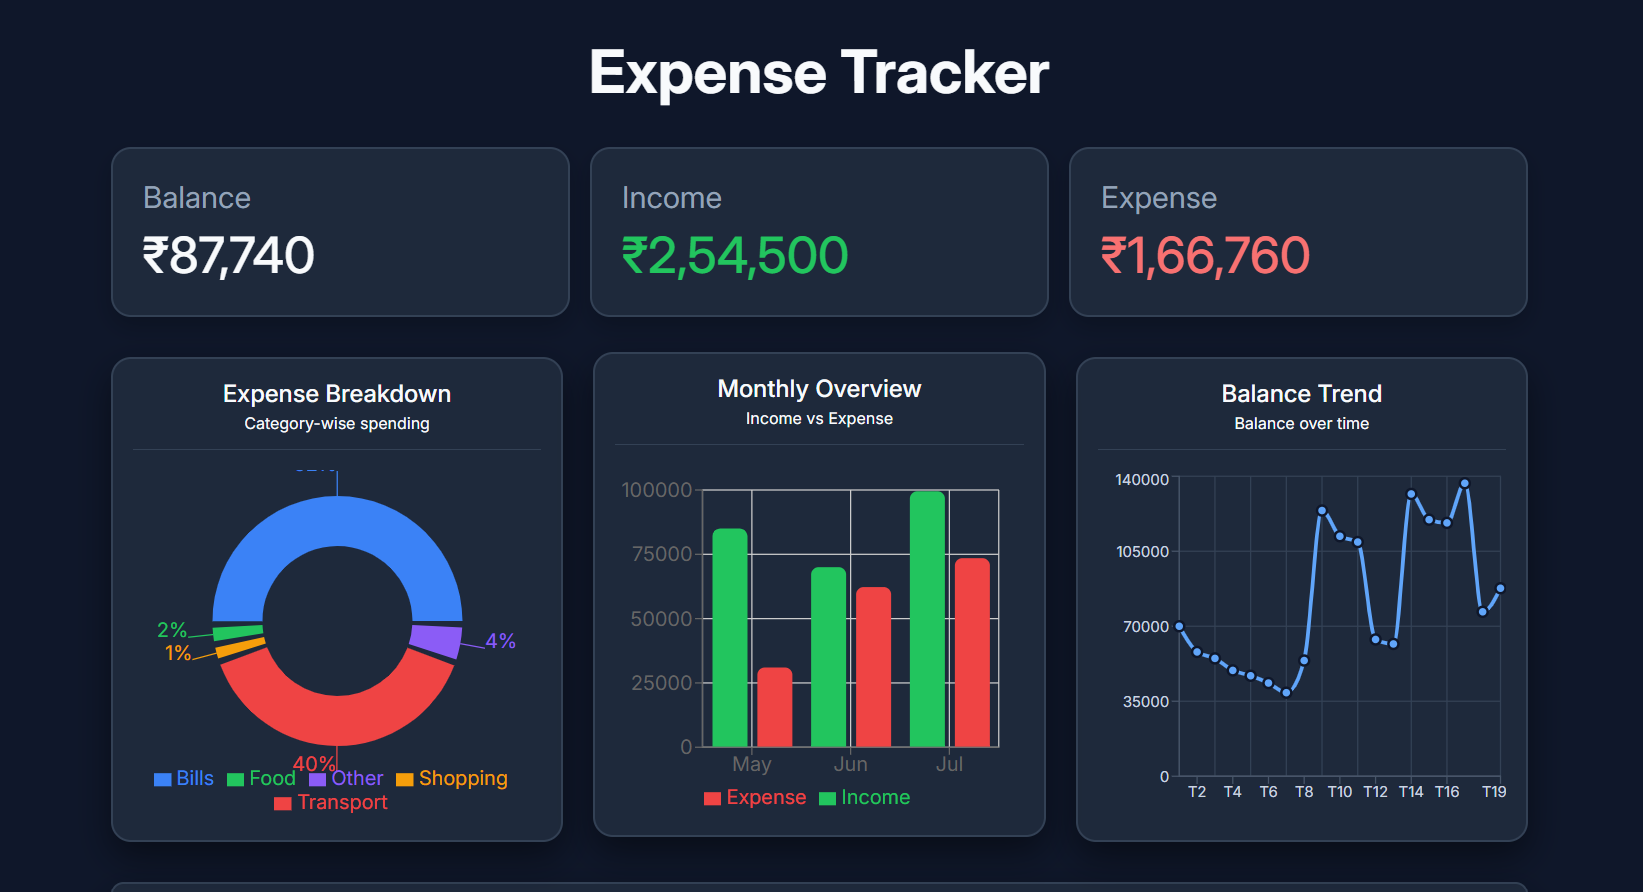
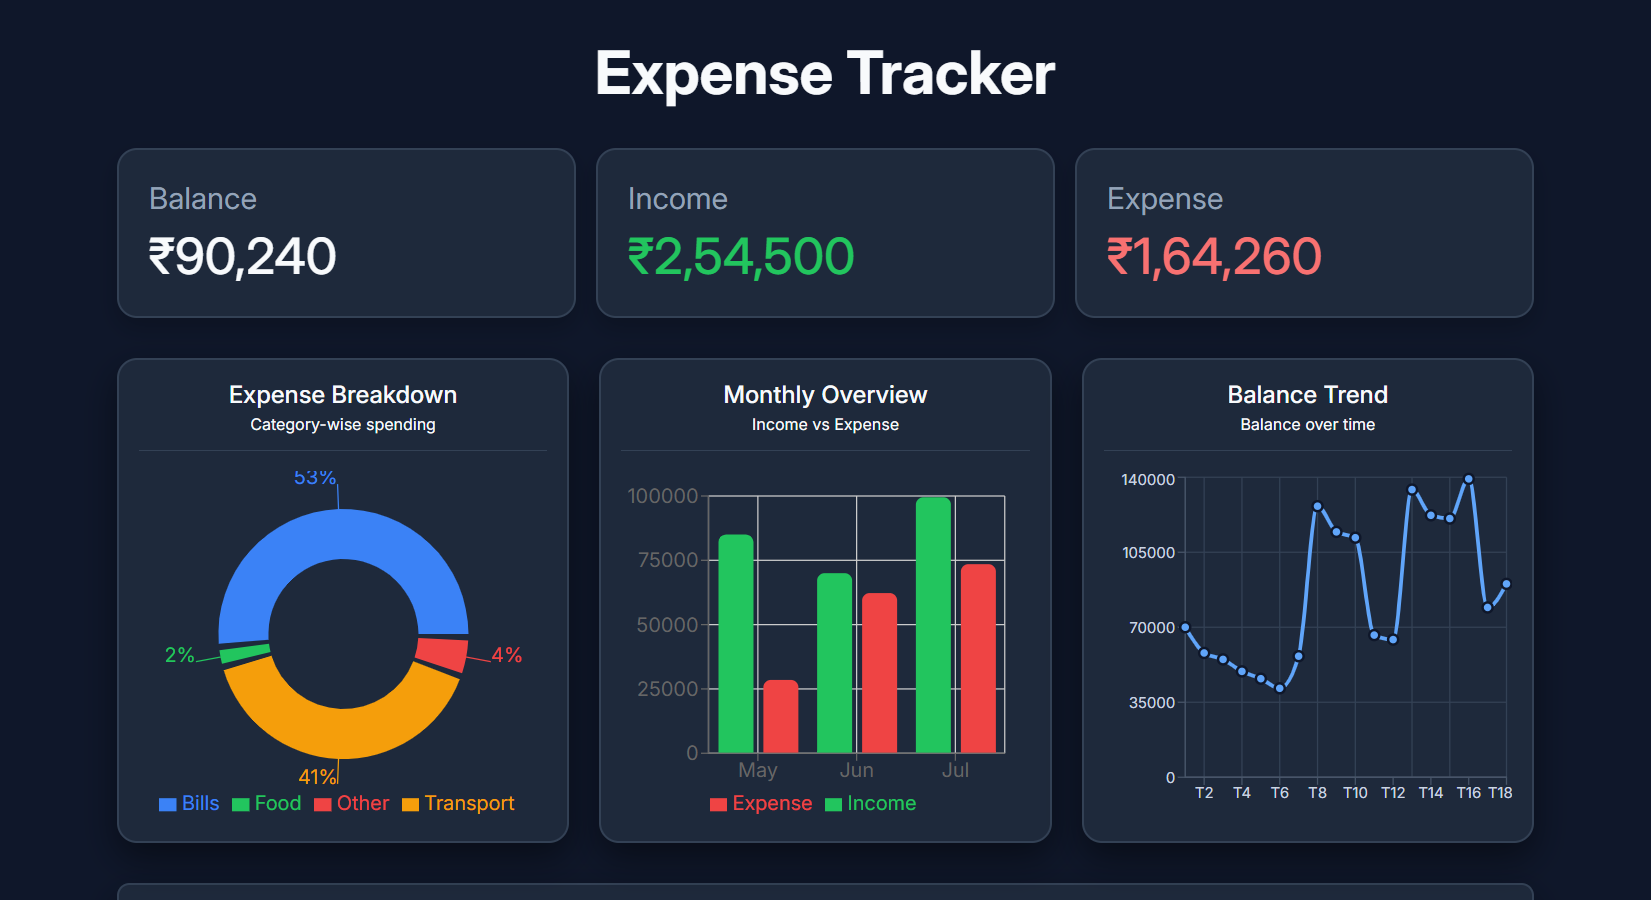
Added new screenshot and some UI changes in project

diff --git a/src/index.css b/src/index.css
@@ -350,6 +350,19 @@ form{
     width: 100%;
     padding: .5rem;
   }
+  .transactions-list li{
+    flex-direction: column;
+    gap: .25rem;
+  }
+  .transaction-left-div{
+    display: grid;
+    grid-template-columns: 1fr auto;
+    gap: 0.75rem;
+    align-items: start;
+  }
+  .transaction-right-div{
+    justify-content: space-between;
+  }
   form{
     padding :1rem;
   }
